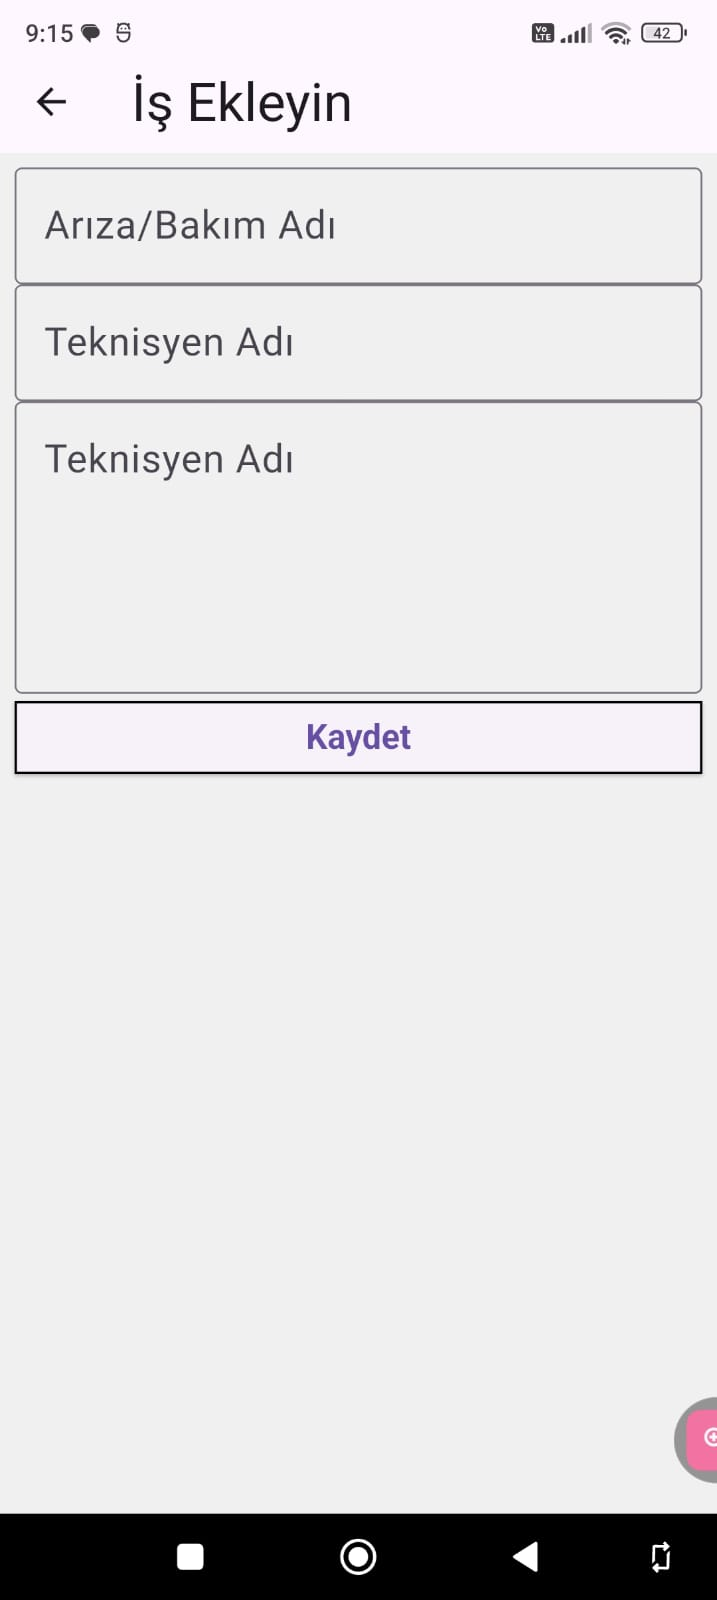
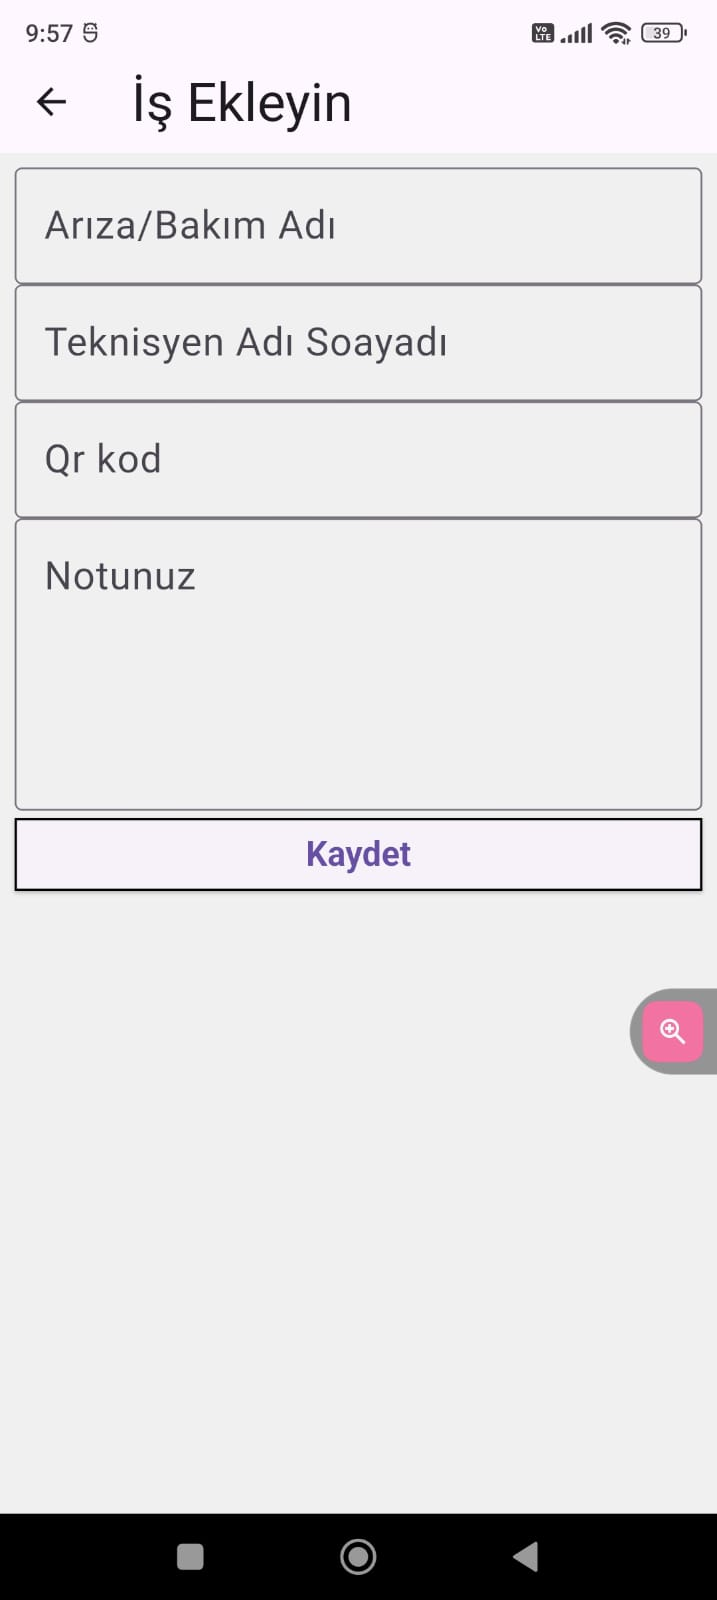
feat: arama filtresi eklendi ve qr okuyucu iyilestirildi

diff --git a/lib/features/field-service/screens/work_order_list_screen.dart b/lib/features/field-service/screens/work_order_list_screen.dart
@@ -12,6 +12,7 @@ class WorkOrderListScreen extends StatefulWidget {
 }
 
 class _WorkOrderListScreenState extends State<WorkOrderListScreen> {
+  final searchController = TextEditingController();
   final timeController = TextEditingController();
   @override
   void initState() {
@@ -24,6 +25,7 @@ class _WorkOrderListScreenState extends State<WorkOrderListScreen> {
   @override
   void dispose() {
     timeController.dispose();
+    searchController.dispose();
     super.dispose();
   }
 
@@ -57,28 +59,41 @@ class _WorkOrderListScreenState extends State<WorkOrderListScreen> {
                 )
               : const SizedBox.shrink(),
         ],
-        bottom: const PreferredSize(
+        bottom: PreferredSize(
           preferredSize: Size.fromHeight(80),
           child: FilterSegmentedButton(),
         ),
       ),
-      body: RefreshIndicator(
-        onRefresh: _refreshData,
-        child: Consumer<FilterProvider>(
-          builder: (context, filterProvider, child) {
-            if (filterProvider.isLoading) {
-              return const Center(child: CircularProgressIndicator());
-            }
-            final filteredList = filterProvider.getFilteredWorkOrders(
-              filterProvider.orders,
-              authProvider.currentUser!,
-            );
-            if (filteredList.isEmpty) {
-              return const EmptyState();
-            }
-            return WorkOrderList(orderlist: filteredList);
-          },
-        ),
+      body: Column(
+        children: [
+          TextField(
+            controller: searchController,
+            onChanged: (value) => context.read<FilterProvider>().serachRegen(
+              searchController.text,
+            ),
+            decoration: InputDecoration(hintText: 'Arama'),
+          ),
+          Expanded(
+            child: RefreshIndicator(
+              onRefresh: _refreshData,
+              child: Consumer<FilterProvider>(
+                builder: (context, filterProvider, child) {
+                  if (filterProvider.isLoading) {
+                    return const Center(child: CircularProgressIndicator());
+                  }
+                  final filteredList = filterProvider.getFilteredWorkOrders(
+                    filterProvider.orders,
+                    authProvider.currentUser!,
+                  );
+                  if (filteredList.isEmpty) {
+                    return const EmptyState();
+                  }
+                  return WorkOrderList(orderlist: filteredList);
+                },
+              ),
+            ),
+          ),
+        ],
       ),
     );
   }

diff --git a/lib/features/field-service/providers/filter_provider.dart b/lib/features/field-service/providers/filter_provider.dart
@@ -12,6 +12,8 @@ class FilterProvider extends ChangeNotifier {
   FilterStatusEnum get filterStatus => _filterStatus ?? FilterStatusEnum.all;
   int? _filterTime;
   int get filterTime => _filterTime ?? 0;
+  String? _searchQuery;
+  String get searchQuery => _searchQuery ?? "";
   bool isLoading = false;
   void statusregen(FilterStatusEnum status) {
     _filterStatus = status;
@@ -20,6 +22,11 @@ class FilterProvider extends ChangeNotifier {
 
   void timeregen(int time) {
     _filterTime = time;
+    notifyListeners();
+  }
+
+  void serachRegen(String text) {
+    _searchQuery = text;
     notifyListeners();
   }
 
@@ -53,10 +60,23 @@ class FilterProvider extends ChangeNotifier {
         return order.createdAt.isAfter(thirtyDaysAgo);
       }).toList();
     }
+
+    if (searchQuery.trim().isNotEmpty) {
+      final query = searchQuery.toLowerCase().trim();
+      tempOrders = tempOrders.where((order) {
+        final matchesTitle = order.title.toLowerCase().contains(query);
+        final matchesNotes = order.notes.toLowerCase().contains(query);
+
+        return matchesTitle || matchesNotes;
+      }).toList();
+    }
+
+    // 5. Denetim Günlüğü (Audit Log)
     log(
-      "Kullanıcı:${currentUserRole.name}, ${DateTime.now()} Tarihinde ${filterStatus.trName} İşleri Listeledi",
+      "Kullanıcı:${currentUserRole.name}, ${DateTime.now()} Tarihinde ${filterStatus.trName} İşleri Listeledi. Arama Kelimesi: '$searchQuery'",
       name: "Audit Log",
     );
+
     return tempOrders;
   }
 

diff --git a/lib/features/field-service/screens/work_add.dart b/lib/features/field-service/screens/work_add.dart
@@ -11,6 +11,7 @@ class WorkAdd extends StatefulWidget {
 class _WorkAddState extends State<WorkAdd> {
   final titleController = TextEditingController();
   final notesController = TextEditingController();
+  final qrController = TextEditingController();
   final techniciannameController = TextEditingController();
   final _formKey = GlobalKey<FormState>();
 
@@ -19,6 +20,7 @@ class _WorkAddState extends State<WorkAdd> {
   Future<void> _updateOrderTechnician(
     String title,
     String technician,
+    String qr,
     String note,
     BuildContext context,
   ) async {
@@ -28,7 +30,7 @@ class _WorkAddState extends State<WorkAdd> {
         title: title,
         status: WorkOrderStatus.open,
         assignmentTechnician: technician,
-        expectedQrCode: "qe-00000",
+        expectedQrCode: qr,
         notes: note,
         photos: "",
         createdAt: DateTime.now(),
@@ -51,6 +53,7 @@ class _WorkAddState extends State<WorkAdd> {
         child: Padding(
           padding: EdgeInsetsGeometry.all(8),
           child: Column(
+            spacing: 5,
             children: [
               TextFormField(
                 validator: appvalidator,
@@ -60,13 +63,18 @@ class _WorkAddState extends State<WorkAdd> {
               TextFormField(
                 validator: appvalidator,
                 controller: techniciannameController,
-                decoration: InputDecoration(hintText: "Teknisyen Adı"),
+                decoration: InputDecoration(hintText: "Teknisyen Adı Soayadı"),
+              ),
+              TextFormField(
+                validator: appvalidator,
+                controller: qrController,
+                decoration: InputDecoration(hintText: "Qr kod"),
               ),
               TextFormField(
                 validator: appvalidator,
                 controller: notesController,
                 maxLines: 4,
-                decoration: InputDecoration(hintText: "Teknisyen Adı"),
+                decoration: InputDecoration(hintText: "Notunuz"),
               ),
               SizedBox(
                 width: double.infinity,
@@ -76,6 +84,7 @@ class _WorkAddState extends State<WorkAdd> {
                       _updateOrderTechnician(
                         titleController.text,
                         techniciannameController.text,
+                        qrController.text,
                         notesController.text,
                         context,
                       );

diff --git a/lib/core/router/app_router.dart b/lib/core/router/app_router.dart
@@ -1,5 +1,4 @@
 import 'package:go_router/go_router.dart';
-import 'package:saha_bakim/features/field-service/screens/work_add.dart';
 import '../../index.dart';
 
 class AppRouter {

diff --git a/README.md b/README.md
@@ -55,7 +55,7 @@ flutter run
 ## 📸 Ekran Görüntüleri
 
 ### 🫕 Giriş Ekranı
-![Dark](screenshots/login.jpeg)
+![Login](screenshots/login.jpeg)
 
 ### 🏠 Ana Sayfa
 ![Home](screenshots/main_menu.jpeg)
@@ -64,6 +64,6 @@ flutter run
 ![Add](screenshots/work_add.jpeg)
 
 ### ✏️ İş Detayları
-![Edit](screenshots/work_detalis.jpeg)
+![detalis](screenshots/work_detalis.jpeg)
 
 